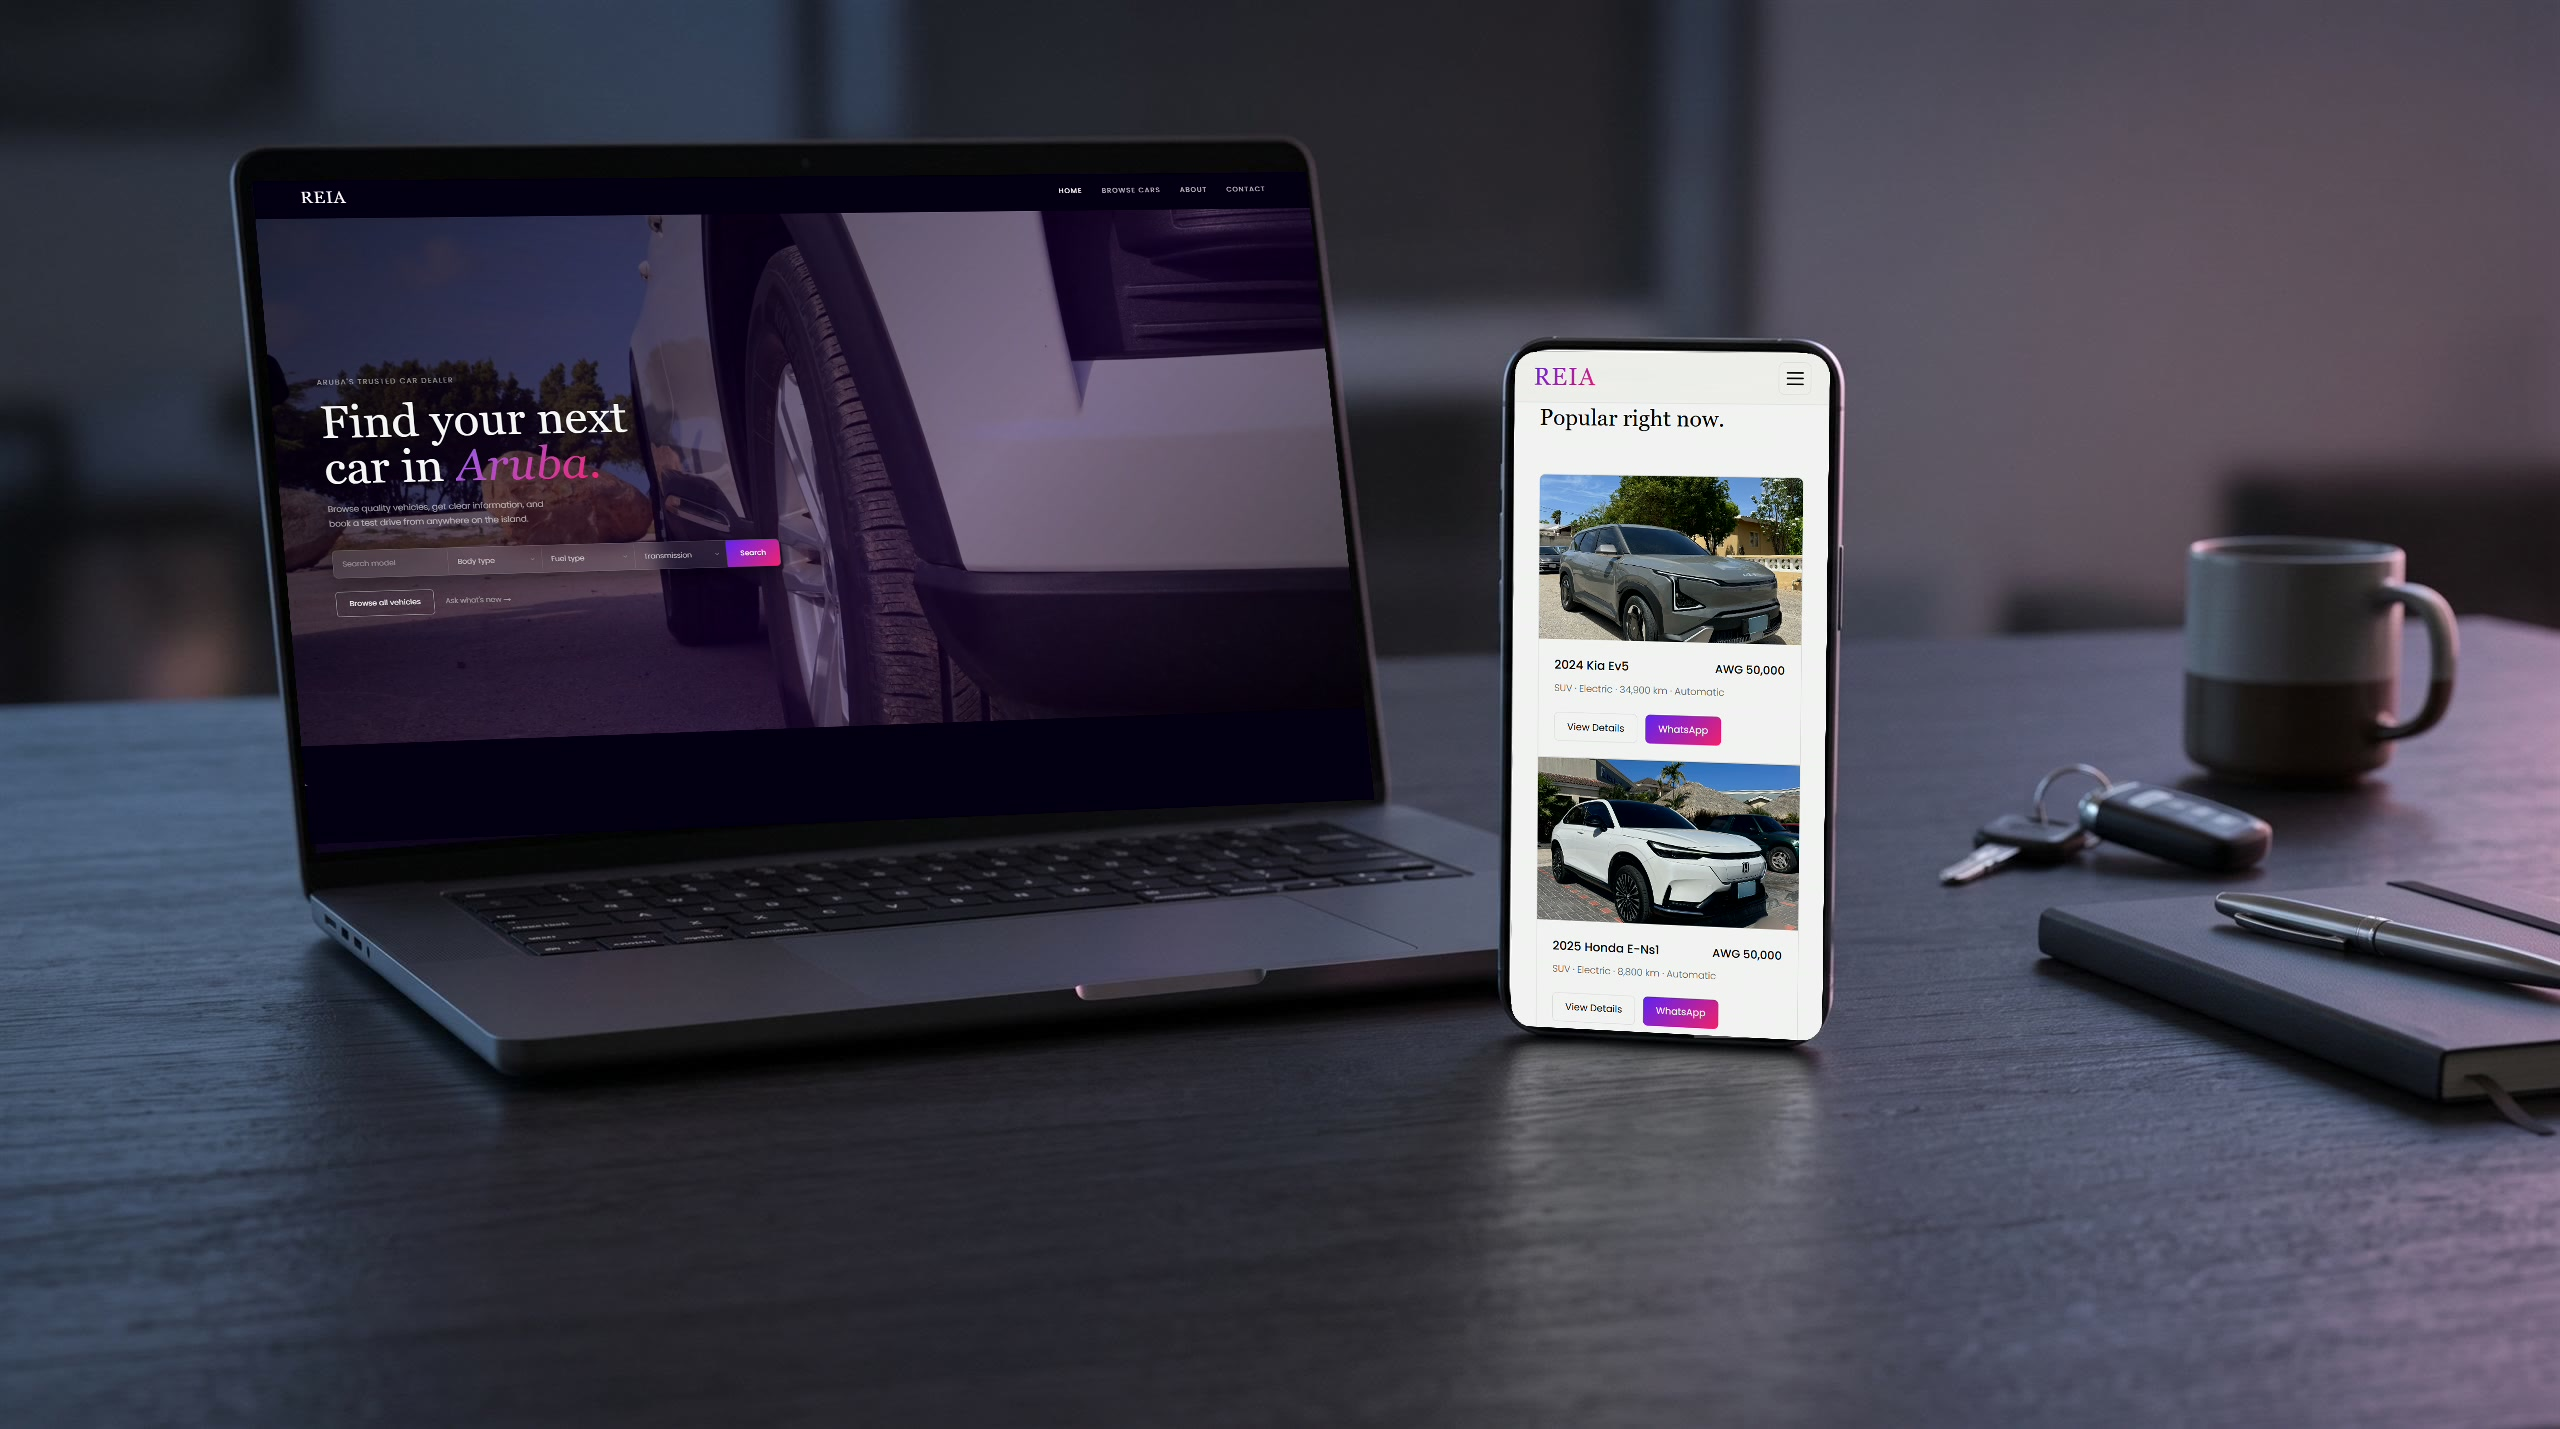
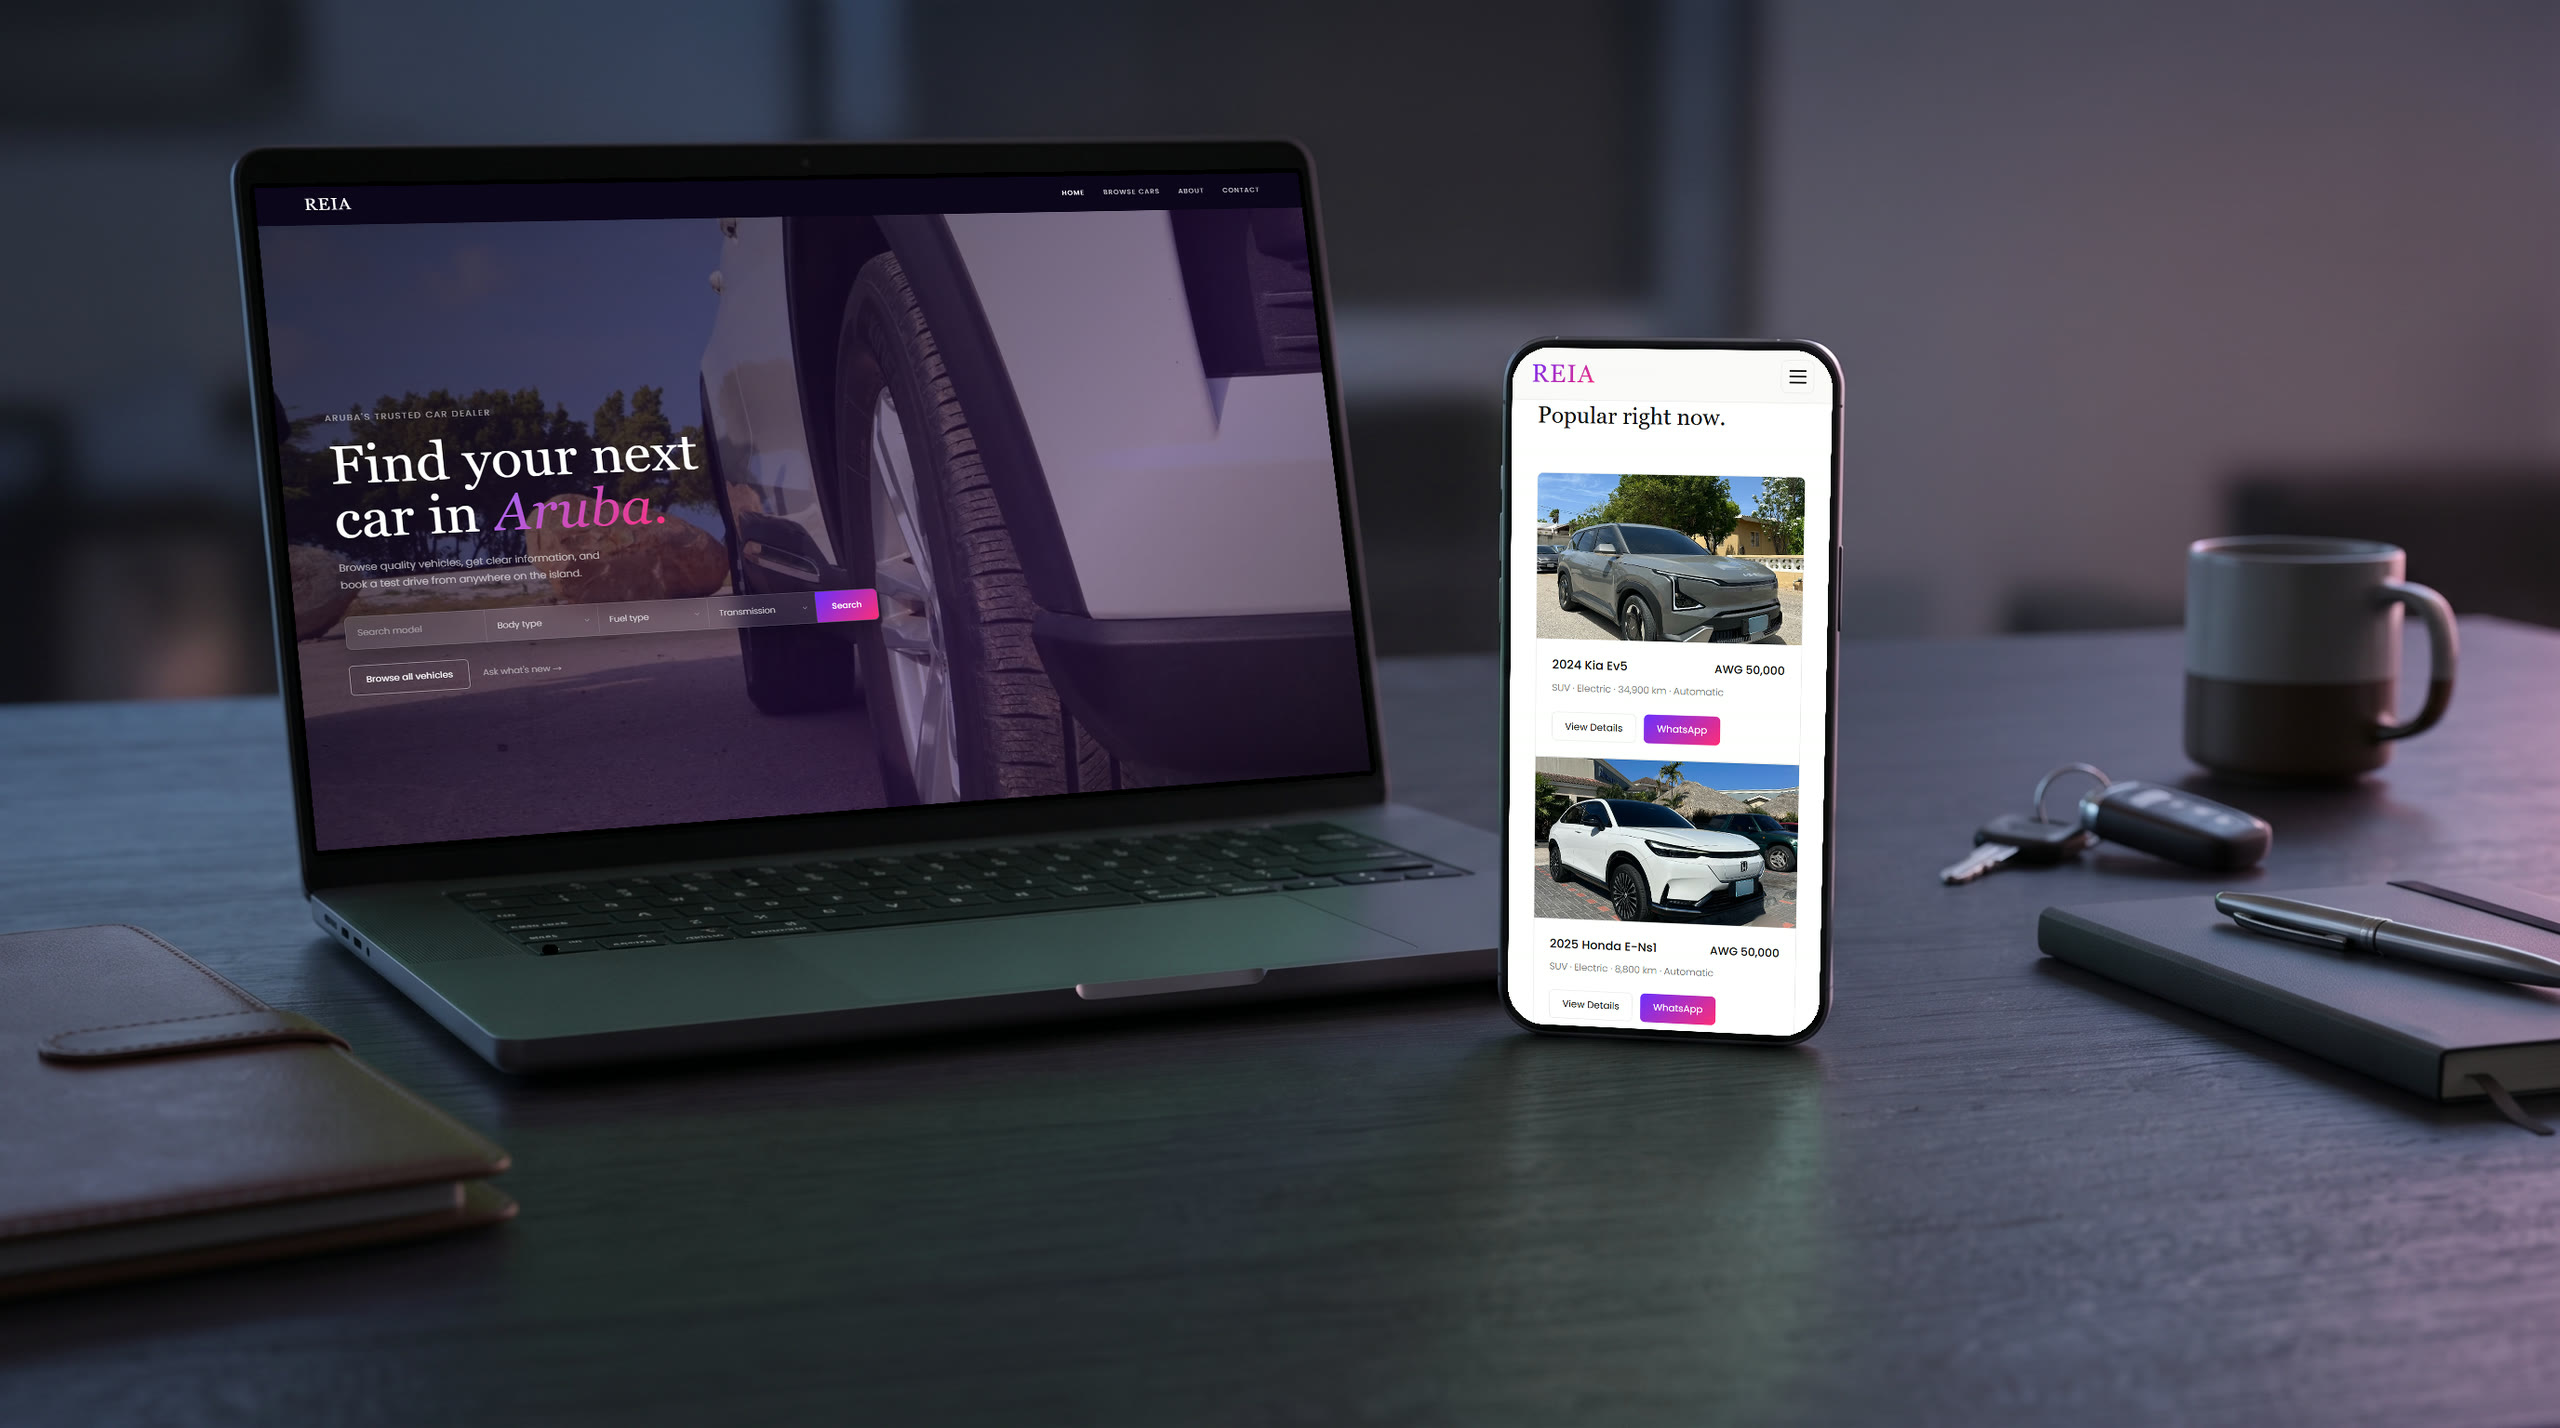
REIA: new cover with real site on laptop and phone; homepage title REIA Motors

diff --git a/index.html b/index.html
@@ -67,10 +67,10 @@
 
             <div class="project-item">
                 <a href="reia.html">
-                    <h1 class="project-title project3">REIA</h1>
+                    <h1 class="project-title project3">REIA MOTORS</h1>
                 </a>
                 <p class="project-date"><span class="project-num">Project 03</span> <span class="project-when">FEB – MAR <span class="project-year">2026</span></span></p>
-                <p class="project-desc">A WEBSITE FOR REIA MOTORS, A USED-CAR DEALER IN ARUBA, FROM CLIENT BRIEF TO A LIVE SITE WITH A CMS.</p>
+                <p class="project-desc">A WEBSITE FOR A USED-CAR DEALER IN ARUBA, FROM CLIENT BRIEF TO A LIVE SITE WITH A CMS.</p>
             </div>
         </div>
 
